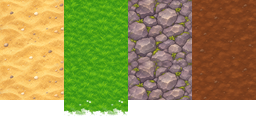
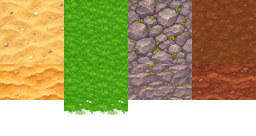
Materiais V2: frentes próprias de terra, Pedra Bruta e areia
A arte enviou as frentes dos três materiais (antes a frente repetia o topo).
Entram pelo import-material.py --front: a janela útil é o alto 128×72 da imagem
reduzida a 128 de largura. A frente da grama usa a da terra, então muda junto.
Emendas da frente conferidas no relatório (0,63–1,01).

Claude-Session: https://claude.ai/code/session_01KGdgomm438trDHTLPLqJmv

Changed region(s): [[0.5, 0.4706, 1.0, 0.7353], [0.0, 0.4706, 0.25, 0.7353]]

diff --git a/docs/CURRENT_STATE.md b/docs/CURRENT_STATE.md
@@ -1,6 +1,6 @@
 # Estado atual
 
-_Atualizado em 2026-11-07 — v0.81.1 · jogo: **Orvalis** (`orvalis.pensamentos.online`)_
+_Atualizado em 2026-11-07 — v0.81.2 · jogo: **Orvalis** (`orvalis.pensamentos.online`)_
 
 Este documento descreve **só o que existe hoje**. O histórico por entrega está no [`CHANGELOG`](CHANGELOG.md); o diário
 técnico antigo (até a v0.80.0, com nomes de funções e versões de protocolo/salvamento) está em
@@ -10,7 +10,7 @@ uma seção por versão) e registre a mudança no `CHANGELOG`.
 ## Versões e números de referência
 | Item | Valor | Fonte |
 |---|---|---|
-| Versão do jogo | 0.81.1 | `package.json` |
+| Versão do jogo | 0.81.2 | `package.json` |
 | `PROTOCOL_VERSION` (multiplayer) | 18 | `src/net/protocol.ts` |
 | `SAVE_VERSION` (salvamento local) | 10 | `src/game/save.ts` |
 | Testes | 217 em 43 arquivos (Vitest), todos passando | `npm test` |
@@ -94,8 +94,8 @@ uma seção por versão) e registre a mudança no `CHANGELOG`.
   na pasta; pacote original em `docs/materiais-v2/`) e o motor monta o cubo (`composeCube` com a altura da frente).
 - Frente dos cubos **18** (decidido: o pacote propunha 16); janela da frente 128×72; **sem frente própria, a frente
   repete o topo**; franja até 32 px.
-- Materiais com **arte oficial**: terra, grama (franja reduzida aos 32 px), areia e Pedra Bruta, todos sem frente
-  própria; grama = topo de grama + frente de terra + franja. Pipeline: `scripts/import-material.py` →
+- Materiais com **arte oficial**: terra, areia e Pedra Bruta (topo e frente próprios) e grama (franja reduzida aos
+  32 px; topo de grama + frente de terra + franja). Pipeline: `scripts/import-material.py` →
   `scripts/build-materials.py` → `materials-v2.webp` (~36 kB, sem perdas) + manifesto (`top`, `front`, `overlay`).
 - Para ver: `?blocos=v2` troca esses blocos no mundo (sem as variações da grama legada); `?materiais=1` (só em
   desenvolvimento) põe legado e V2 lado a lado; `?escala=1&blocos=v2`, a arte V2 na cena de escala.

diff --git a/docs/NEXT_STEPS.md b/docs/NEXT_STEPS.md
@@ -193,7 +193,7 @@ Recomendação aprovada pelo dono do produto em 2026-11-07: por etapas, jogo int
    (mundo) e `?materiais=1` (só dev, `dev/materialsScene.ts`: pilhas, chão, heroína no chão e sobre cubo, grade e linha
    de apoio).
 2. ✅ **Arte oficial** (v0.81.0–0.81.1): terra, grama, franja da grama (reduzida aos 32 px do padrão), areia e Pedra
-   Bruta. Sem frentes próprias: a frente repete o topo (regra). Conferir na cena a densidade de terra e grama (vieram
+   Bruta, estas três com frente própria desde a v0.81.2 (a grama usa a frente da terra); sem frente, a frente repete o topo. Conferir na cena a densidade de terra e grama (vieram
    em 1254 px; no jogo cada célula mostra o quadro inteiro, detalhes pequenos somem).
 3. **Transições horizontais** só no chão plano e na mesma altura: 8 vizinhos, diagonais só com os 2 cardeais, 47 casos
    a partir de ~13 formas em `assets-src/materiais/_mascaras/` giradas pelo script; prioridade por material do topo

diff --git a/docs/CHANGELOG.md b/docs/CHANGELOG.md
@@ -1,5 +1,10 @@
 # Changelog
 
+## 0.81.2 — 2026-11-07
+- **Materiais V2 — frentes próprias** (nada muda no jogo): terra, Pedra Bruta e areia ganharam a frente enviada pela arte
+  (antes repetiam o topo). A frente da grama usa a frente da terra, então muda junto. Visíveis em `?blocos=v2` e
+  `?materiais=1`.
+
 ## 0.81.1 — 2026-11-07
 - **Materiais V2 — decisões do dono do produto** (nada muda no jogo): a frente dos cubos **fica em 18** (a comparação
   com 16 não mostrou diferença que valha a mudança); a franja da grama foi **reduzida aos 32 px** do padrão (veio com
